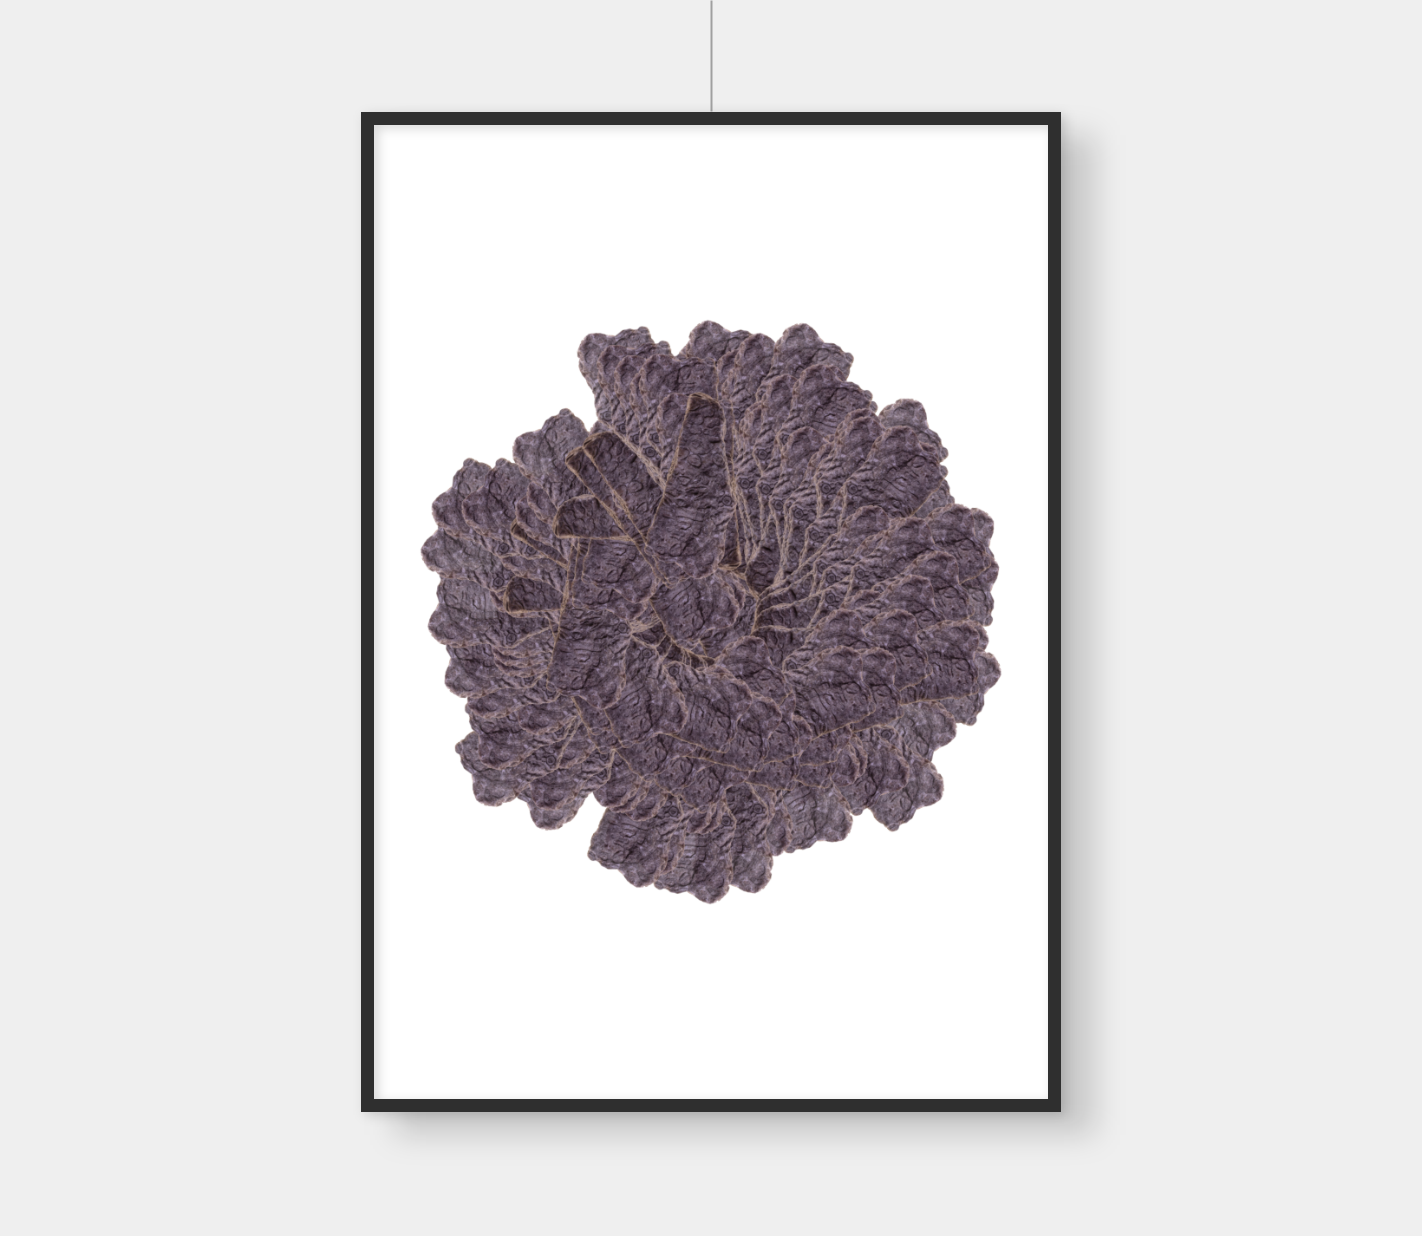
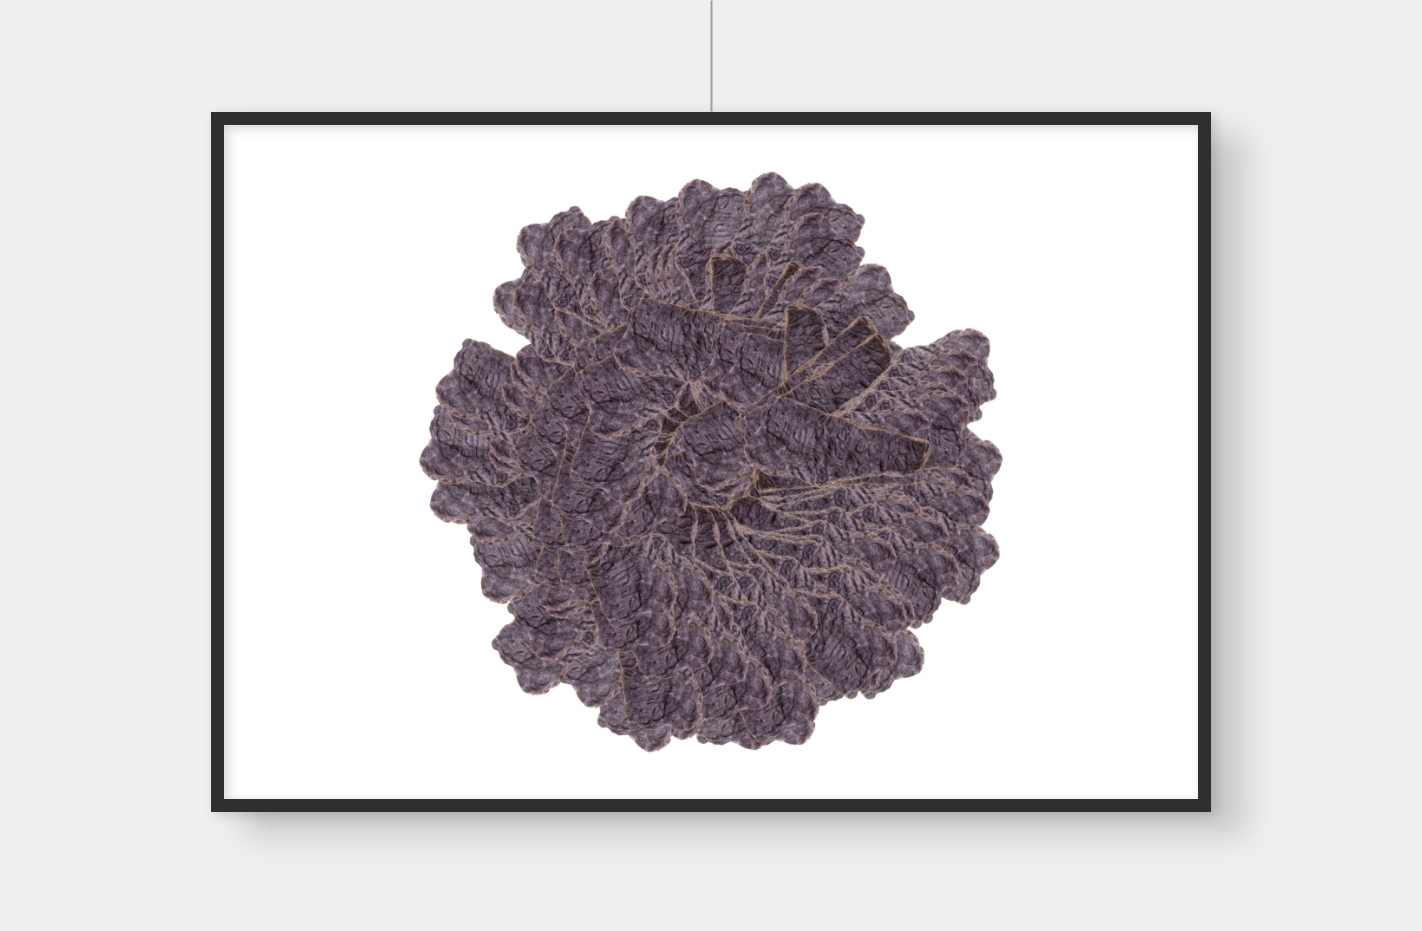
re

Changed region(s): [[0.1238, 0.0623, 0.8973, 0.9345]]

diff --git a/README.md b/README.md
@@ -6,7 +6,7 @@ Die 'Rotation des grapholith' arbeitet mit der Fotographie 'grapholith' von Hein
 
 ![grapholith](mockups/grapholith.png)
 
-*Hängevorschlag, Hochformat, 70x100*
+*Hängevorschlag, 100x70*
 
 
 ## grid-scapes
